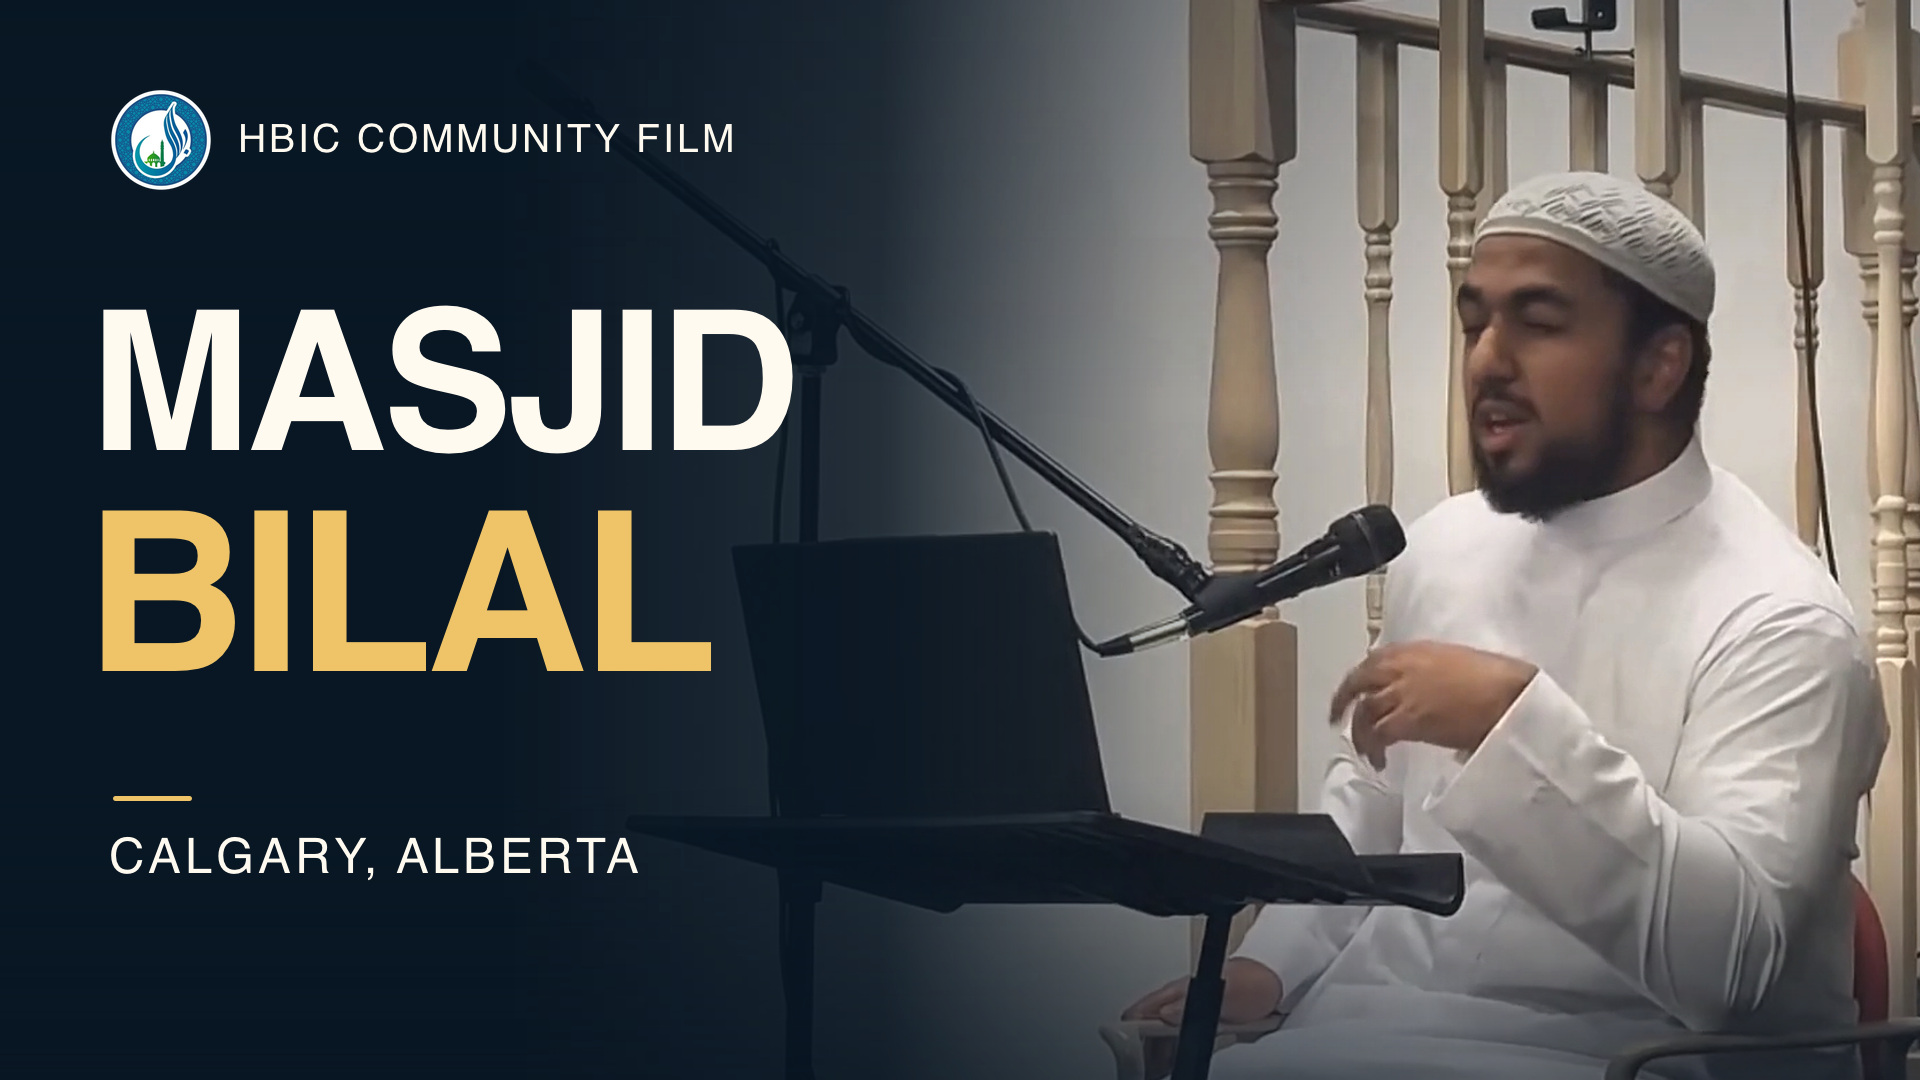
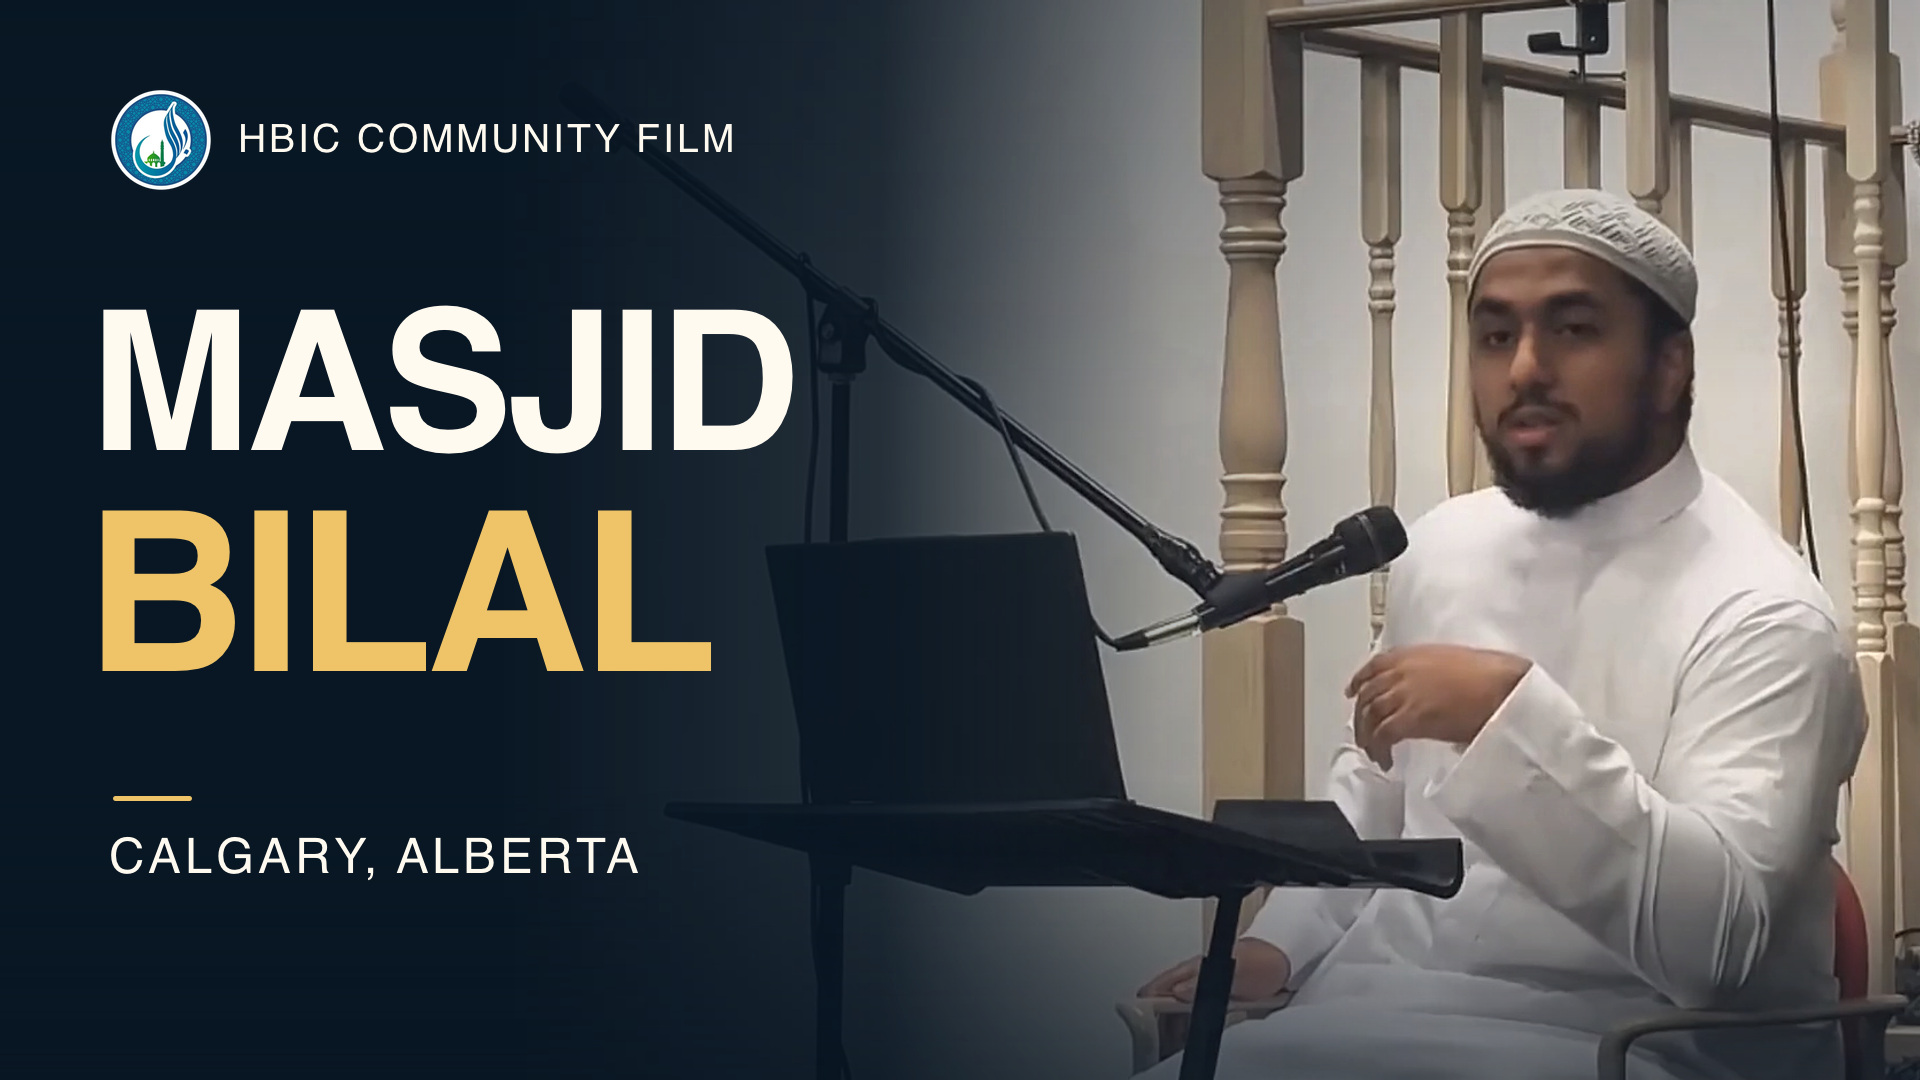
Match the HBIC trailer covers across web and social

Changed region(s): [[0.4688, 0.0, 1.0, 1.0], [0.7812, 0.6111, 0.8125, 0.6722], [0.4375, 0.3056, 0.4688, 0.3361]]

diff --git a/apps/public-web/components/WelcomeFilm.tsx b/apps/public-web/components/WelcomeFilm.tsx
@@ -6,17 +6,18 @@ import { useEffect, useRef, useState } from "react";
 const filmRevision = "20261125-community";
 const fullFilm = `/media/videos/hbic-welcome-story.mp4?v=${filmRevision}`;
 const teaserFilm = `/media/videos/hbic-welcome-story-teaser.mp4?v=${filmRevision}`;
-const poster = `/media/videos/hbic-welcome-story-poster.jpg?v=${filmRevision}`;
+const poster = "/media/videos/hbic-welcome-story-poster.jpg?v=20261125-cover";
 
 export function WelcomeFilm() {
   const [isWatching, setIsWatching] = useState(false);
+  const [previewRequested, setPreviewRequested] = useState(false);
   const [playbackMessage, setPlaybackMessage] = useState("");
   const videoRef = useRef<HTMLVideoElement>(null);
   const previewRef = useRef<HTMLVideoElement>(null);
 
   useEffect(() => {
     const preview = previewRef.current;
-    if (!preview) return;
+    if (!preview || !previewRequested) return;
     const reducedMotion = window.matchMedia("(prefers-reduced-motion: reduce)");
     const connection = (navigator as Navigator & { connection?: { saveData?: boolean } }).connection;
     let inView = !("IntersectionObserver" in window);
@@ -38,7 +39,7 @@ export function WelcomeFilm() {
       reducedMotion.removeEventListener("change", updatePreview);
       document.removeEventListener("visibilitychange", updatePreview);
     };
-  }, [isWatching]);
+  }, [isWatching, previewRequested]);
 
   const playFullFilm = () => {
     previewRef.current?.pause();
@@ -72,7 +73,13 @@ export function WelcomeFilm() {
       </div>
 
       <div className={`welcome-cinema-card${isWatching ? " is-playing" : ""}`}>
-        <div className="welcome-video-shell">
+        <div
+          className="welcome-video-shell"
+          onPointerEnter={event => {
+            if (!isWatching && event.pointerType === "mouse") setPreviewRequested(true);
+          }}
+          onPointerLeave={() => setPreviewRequested(false)}
+        >
             <video
               ref={videoRef}
               className="welcome-video"
@@ -89,9 +96,10 @@ export function WelcomeFilm() {
           {!isWatching ? (
             <>
               <video
+                key={previewRequested ? "teaser" : "cover"}
                 ref={previewRef}
                 className="welcome-video"
-                src={teaserFilm}
+                src={previewRequested ? teaserFilm : undefined}
                 poster={poster}
                 muted
                 loop

diff --git a/docs/releases/2026-11-25-community-film.md b/docs/releases/2026-11-25-community-film.md
@@ -34,4 +34,10 @@ Source commit `1640510` was promoted to the existing public-web project as `dpl_
 - [YouTube](https://youtu.be/ve2xJi9khW0) is public on Bilal Islamic Centre (`@HBICYouth`). Studio saved the new video in both Home spotlight slots, and the public channel Home page linked to the new ID. YouTube’s initial check reported no Community Guidelines issues and a music claim that could affect earnings. The superseded HBIC upload (`7u1o84wnYAY`) and the temporary private duplicate (`Z3IGOG4P07k`) were permanently deleted in Studio. The public trailer remained available after both removals.
 - [Instagram](https://www.instagram.com/reel/DgLM4ITNfa2/) is live on `@hbicyouth` with the widescreen film and the matching cover. The app played the reel, and the profile grid showed its pin after refresh. Instagram confirmed deletion of the old reel (`DfMss34O7w4`), after which the profile still showed the new reel pinned.
 
[1 lines of base64/hex data omitted]
+## Matching covers
+
+The covers share the frame at 00:33.367, where the speaker looks forward with his eyes open. The Instagram edition keeps the portrait, title and mark inside the profile-grid crop. The website shows a still cover by default and plays the existing silent teaser on mouse hover when viewing conditions allow. Touch, reduced motion and data-saving modes retain the still until the viewer presses play.
+
[3 lines of base64/hex data omitted]

diff --git a/assets/community-film/Publication.md b/assets/community-film/Publication.md
@@ -39,9 +39,7 @@ Website & app: hbic.ca
 
 ## Artwork
 
-The [current YouTube thumbnail](YouTube%20Thumbnail.jpg) is 1920 × 1080. Rebuild it with `node scripts/media/render-hbic-youtube-thumbnail.mjs <november-25-master> <output.jpg>`. It uses a real frame from the film, the HBIC mark and a short, high-contrast title that reads at phone size.
-
-The November 1 Instagram cover is 1080 × 1440. The two November 1 covers can be rebuilt with `node scripts/media/render-community-film-covers.mjs <verified-film-output-directory>`.
+The [YouTube thumbnail](YouTube%20Thumbnail.jpg), [Instagram cover](Instagram%20Cover.jpg) and website poster use the same frame from the film, the HBIC mark and a short, high-contrast title. Rebuild the set with `node scripts/media/render-hbic-youtube-thumbnail.mjs <november-25-master> <output-directory> --all`. The portrait edition leaves room for Instagram’s profile crop.
 
 ## Verified publication — November 1, 2026
 
